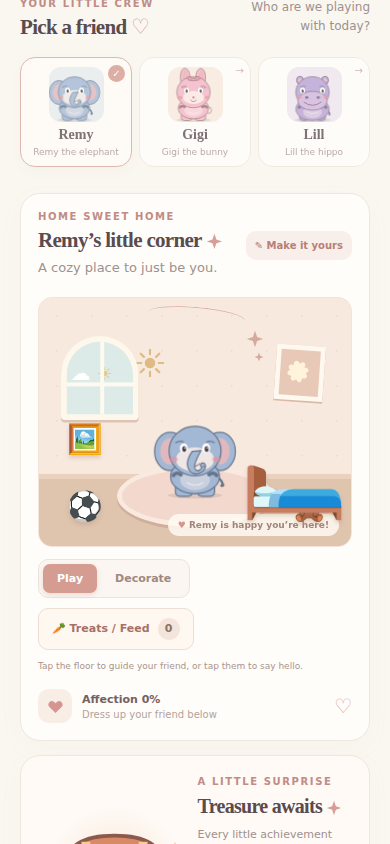
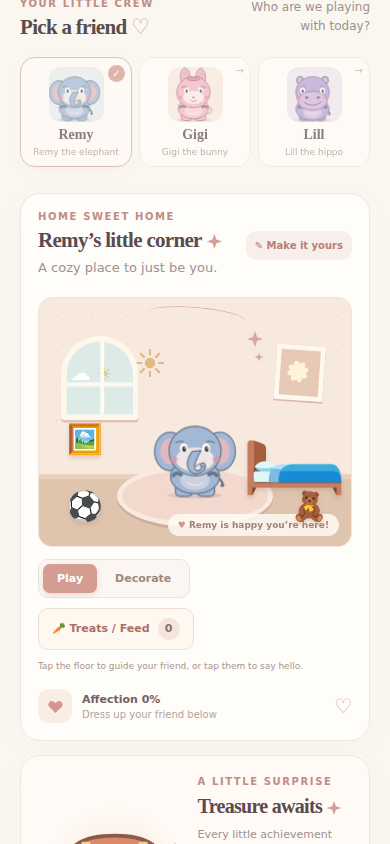
Add updated visual acceptance evidence

Changed region(s): [[0.6154, 0.5237, 0.8923, 0.6161]]

diff --git a/questboard/frontend/src/Creature.css b/questboard/frontend/src/Creature.css
@@ -92,7 +92,8 @@
 @keyframes trunk-chew{50%{transform:translateY(3px) rotate(4deg)}}
 .room-creature{width:100px}
 .room-creature.creature-bed-interaction{z-index:1001}
-.room-creature.creature-in-bed .creature-body{transform-origin:50% 50%}
+.room-creature.creature-in-bed .creature-body{transform:rotate(-90deg) scale(.92,.9);transform-origin:50% 50%}
+.room-creature.creature-in-bed.creature-facing-left{transform:translate(-50%,-100%)}
 .room-creature.creature-petting .creature-head{animation:creature-pet .35s ease-in-out 3}
 .room-creature.creature-petting .creature-tail,.room-creature.creature-petting .creature-ears{animation:pet-follow-through .45s ease-in-out 3}
 @keyframes creature-sleep-in-bed{0%,100%{transform:rotate(-90deg) scale(.92,.9) translateY(1px)}50%{transform:rotate(-90deg) scale(.93,.91) translateY(-1px)}}

diff --git a/README.md b/README.md
@@ -55,6 +55,19 @@ results; no Home Assistant instance was used.
 | Autonomous object interaction | ![Autonomous ball play](screenshots/questboard-040-autonomous.png) |
 | iPhone-sized nursery layout (390px viewport) | ![Questboard nursery on a phone-sized viewport](screenshots/questboard-040-iphone-nursery.png) |
 
+### Visual acceptance follow-up
+
+Updated screenshots from the rendered app after the visual review corrections.
+The phone capture uses a 390px viewport with disposable data and no saved layout
+rows; compact positions are presentation defaults and are not written to the
+profile. Existing saved layouts continue to take precedence.
+
+| Review item | Updated rendered evidence |
+|---|---|
+| Remy tucked into the bed with a pillow and visible quilt | ![Remy tucked under the quilt](screenshots/questboard-041-bed-sleeping.png) |
+| Teddy visibly held between Remy’s wrapping arms | ![Remy hugging the teddy](screenshots/questboard-041-plush-hug.png) |
+| Separated default objects and character on an iPhone-sized screen | ![Nursery layout at 390px](screenshots/questboard-041-iphone-layout.png) |
+
 ## Play
 
 Choose a profile, name and customize its creature, then use the simulated reward
